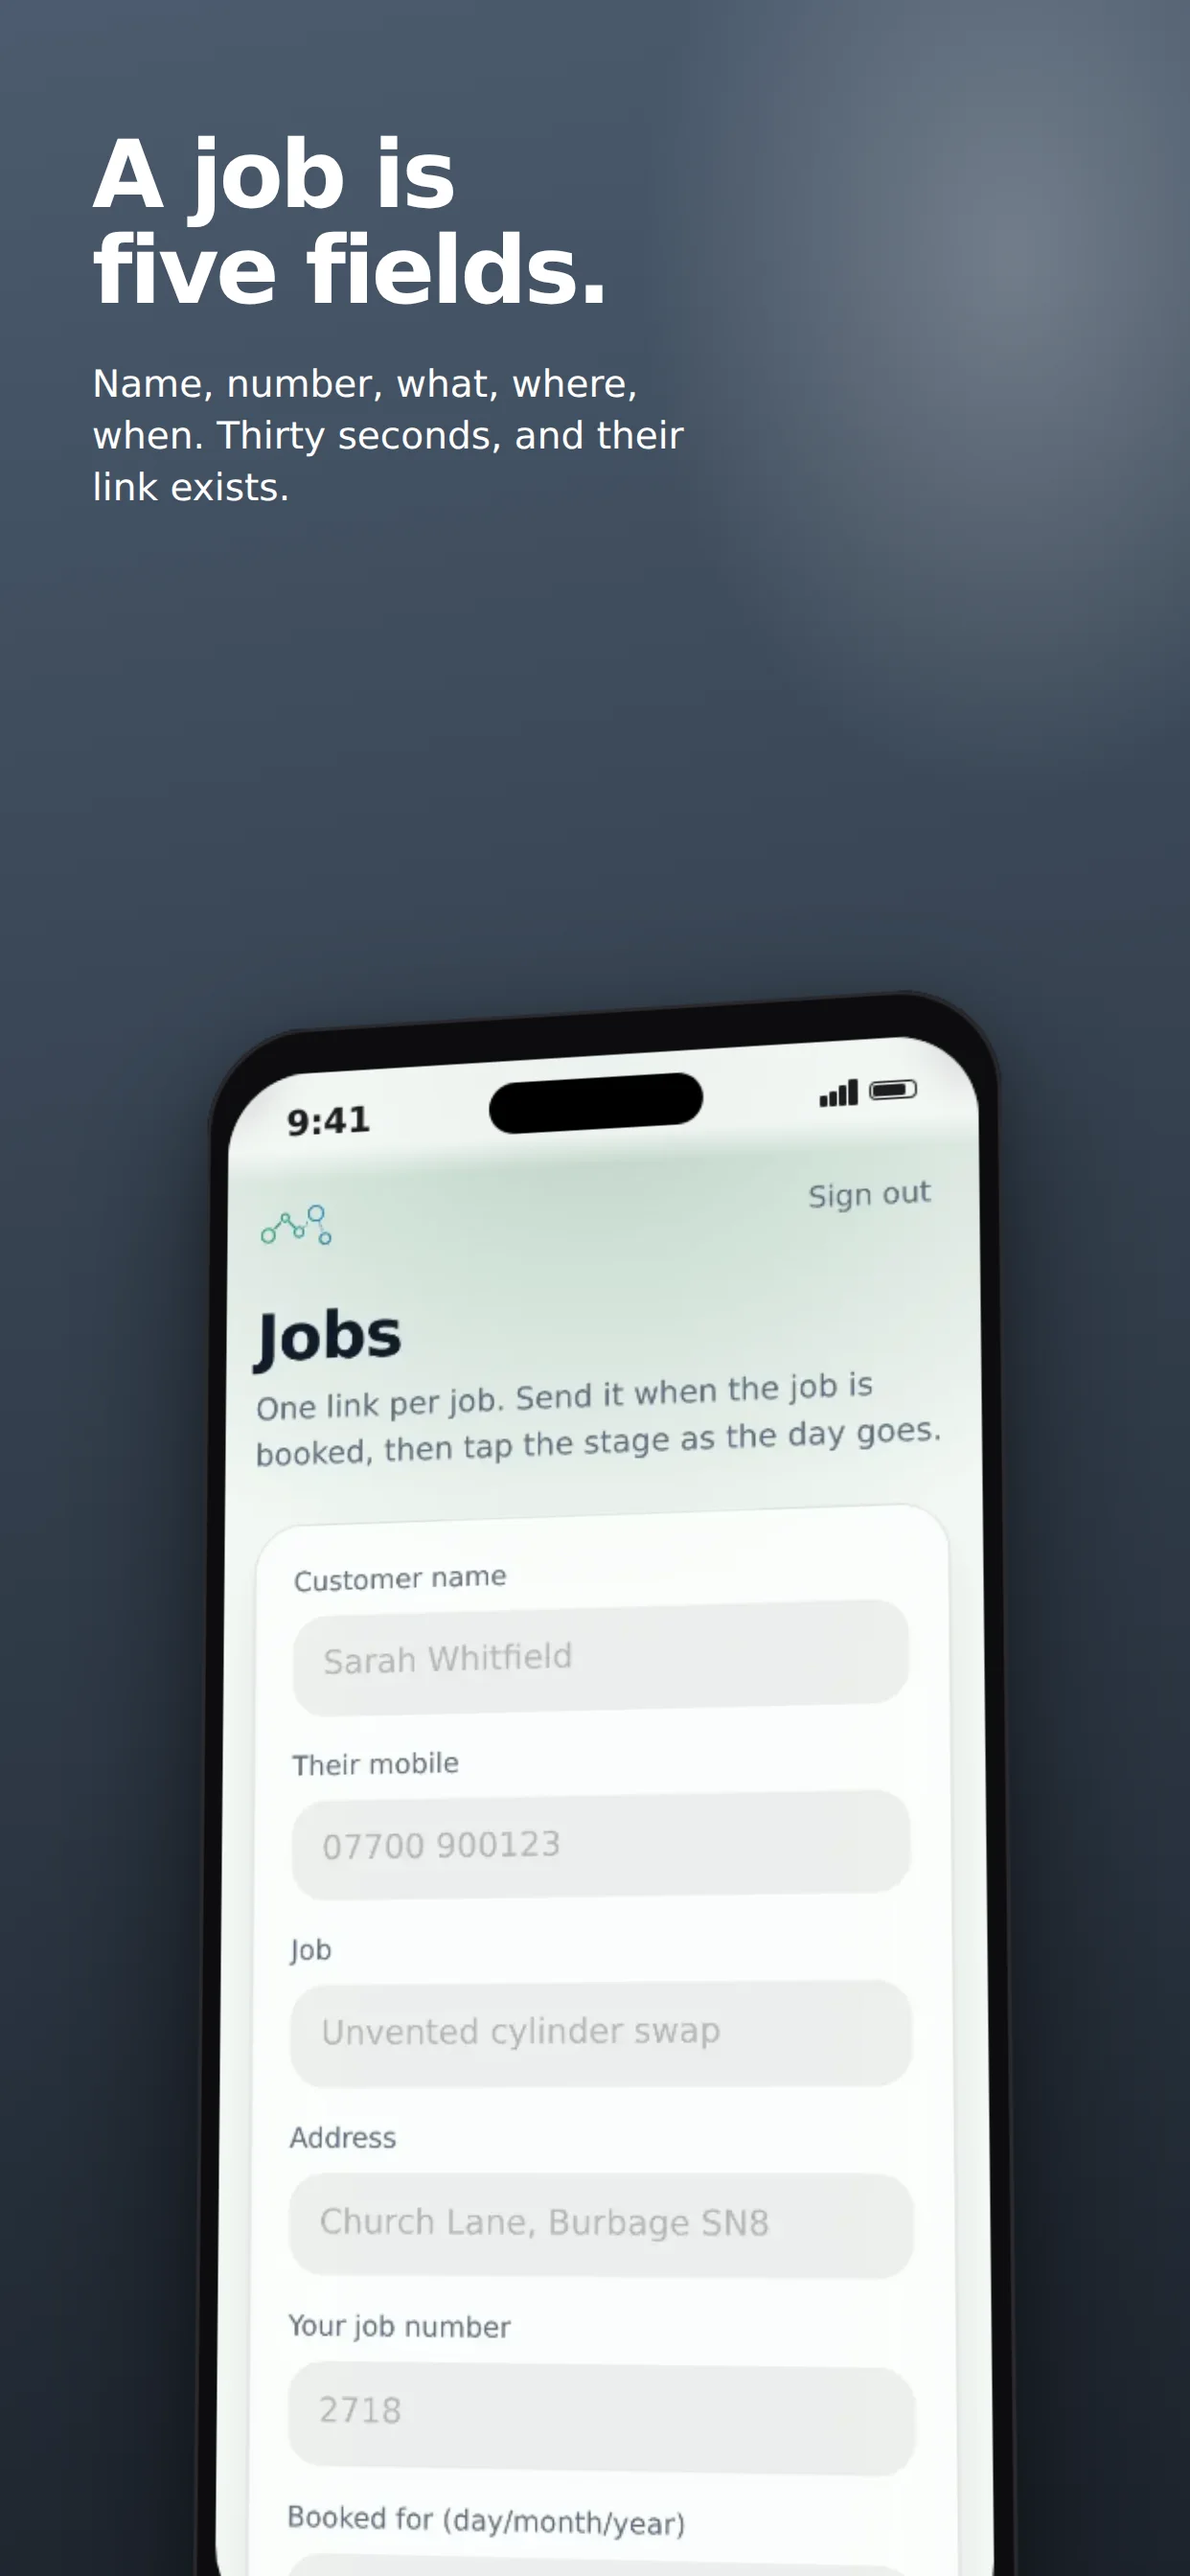
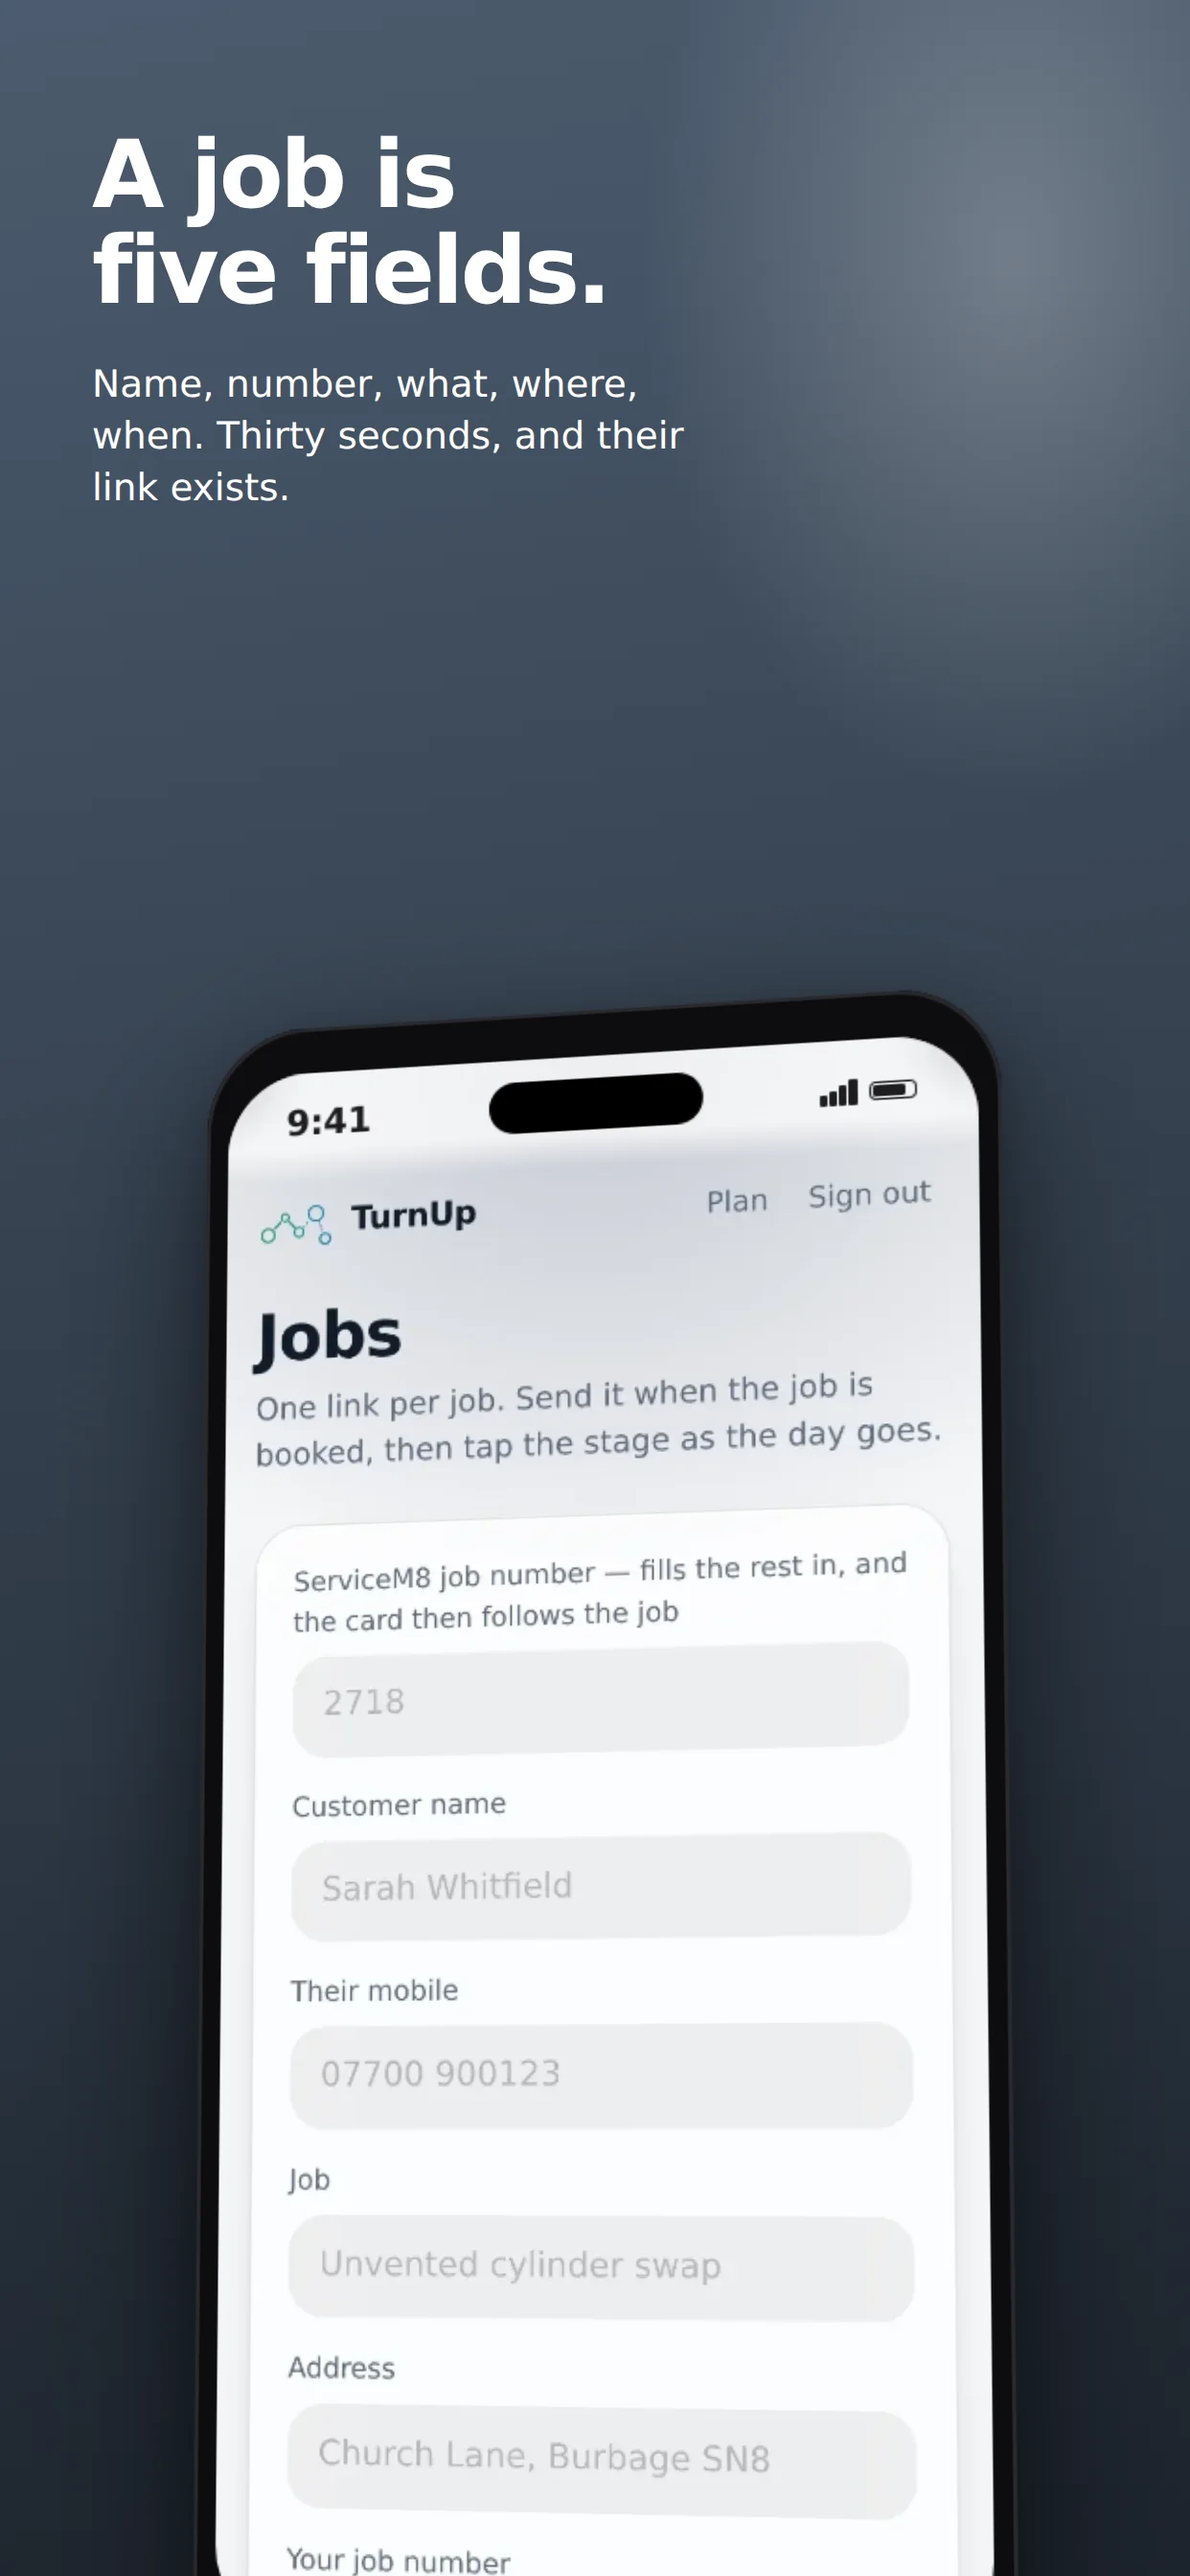
v1.17.0: paid on the same page; trade frames re-captured with the new stage control
Will: 'Please update the features with taking payment for jobs on the app
like ServiceM8.' A new idea on the roadmap and a frame under Where it is
going: when the card says Job done, the bill is under it and Apple Pay or
a card settles it there; the receipt stays with the job. Honest about the
cost: a Stripe account and their fee.

Will: 'regenerate the homepage trade frames with the new stage control.
Do this now.' Done: trade-login, trade-run, dashboard, trade-job-open,
trade-new-job and trade-profile re-captured from the seeded database, and
the eight trade frames re-rendered. First render came out with the OLD
pills because the production image optimizer cache (.next/cache/images)
survives a rebuild and served the stale captures; cleared and rendered
again. Worth remembering: after changing a file in public/home, clear
that cache before rendering frames.

Claude-Session: https://claude.ai/code/session_01KF9r2LXPvcJ1ugbhNoFDpJ

diff --git a/src/app/preview/posters/Posters.jsx b/src/app/preview/posters/Posters.jsx
@@ -215,6 +215,20 @@ function Mock({ kind }) {
       ))}
     </Screen>
   )
+  if (kind === 'pay') return (
+    <Screen eyebrow="Job done · 14 Church Lane" title="Your bill">
+      <div className="rounded-[18px] bg-white px-4 py-4 shadow-sm">
+        <div className="flex items-baseline justify-between"><p className="text-[15px] font-semibold">Unvented cylinder swap</p><p className="text-[22px] font-bold tracking-[-0.02em]">£1,840</p></div>
+        {[['Labour, one day', '£695'], ['Megaflo Eco 210 L', '£986'], ['Fittings and sundries', '£159']].map(([t, v]) => (
+          <div key={t} className="mt-2 flex justify-between border-t border-black/5 pt-2 text-[13px] text-[#5f6672]"><span>{t}</span><span>{v}</span></div>
+        ))}
+        <p className="mt-2 text-[12px] text-[#5f6672]">Includes VAT · as quoted on 12 September</p>
+      </div>
+      <span className="flex items-center justify-center gap-2 rounded-full bg-black px-4 py-3.5 text-[16px] font-semibold text-white"><span className="text-[18px]"></span>Pay £1,840</span>
+      <span className="flex items-center justify-center rounded-full bg-white px-4 py-3.5 text-[15px] font-semibold shadow-sm" style={{ color: 'var(--tint)' }}>Pay by card</span>
+      <Row icon={<TickIcon size={19} />} title="Receipt kept with the job" sub="12-month workmanship guarantee · 25 years on the cylinder" on />
+    </Screen>
+  )
   if (kind === 'pickup') return (
     <Screen eyebrow="Thursday" title="Two ends, one journey">
       <Row icon={<PinIcon size={19} />} title="Pick up · 14 Church Lane" sub="Sarah is in until 2 — side gate" on />

diff --git a/src/lib/roadmap.js b/src/lib/roadmap.js
@@ -128,6 +128,8 @@ export const PHASES = [
         what: 'What happened and who said what, in one thread on the job: the stages, the customer\u2019s answers, your notes, the texts \u2014 the way a ServiceM8 job diary reads, but shared with the person it is about.' },
       { key: 'whatsapp', name: 'WhatsApp, where the bookings actually come from', state: 'idea',
         what: 'Half the jobs start as a WhatsApp with a photo, a video and a pin. Today that gets retyped into the job system and the pictures stay in the chat. The link sent back through WhatsApp, and the photos, the pin and the thread kept with the job \u2014 without running the business inside WhatsApp.' },
+      { key: 'payments', name: 'Paid on the same page', state: 'idea',
+        what: 'When the card says Job done, the bill is under it and Apple Pay or a card settles it there, the way ServiceM8 Pay does on an invoice. A deposit at booking if you take one. The receipt stays with the job, so the customer never hunts an email and you never chase. Needs a Stripe account and takes their fee.' },
       { key: 'quoting', name: 'Quotes and invoices', state: 'idea',
         what: 'Only worth doing once the card is in a hundred wallets.' },
     ],

diff --git a/src/lib/version.js b/src/lib/version.js
@@ -16,7 +16,7 @@
  *
  * Adding one is welcome. Inventing one at runtime is not.
  */
-export const VERSION = '1.16.3'
+export const VERSION = '1.17.0'
 export const BUILD_DATE = '2026-10-09'
 
 export const THEMES = [
@@ -48,6 +48,10 @@ export const theme = () => THEMES[THEME_INDEX % THEMES.length]
  * by the person who asked for it, not by a release manager.
  */
 export const CHANGELOG = [
+  { version: '1.17.0', date: '2026-10-09', notes: [
+    'Paid on the same page: a new idea on the roadmap and a frame under Where it is going. When the card says Job done, the bill is under it and Apple Pay settles it there; the receipt stays with the job.',
+    'The trade-side homepage frames are re-captured with the new stage control.',
+  ] },
   { version: '1.16.3', date: '2026-10-09', notes: [
     'The stage control on a job card is one track with five equal cells, icon over a short label, instead of five pills that wrapped and clipped at phone width. Will: "the buttons lose their integrity".',
   ] },

diff --git a/src/lib/posters.js b/src/lib/posters.js
@@ -113,6 +113,9 @@ export const FRAMES = [
   f('n-manage', 'next', 'next', GREEN,
     'Quote. Book.\nDo. Invoice.', 'The link grows into the job itself: the quote they accepted, the day, the bill, the next service due. One place, for a one-van firm.',
     { mock: 'manage', alt: 'A job from quote to invoice in one place' }),
+  f('n-pay', 'next', 'next', NAVY,
+    'Done.\nPaid.\nReceipt kept.', 'The bill on the same page as the job, settled with Apple Pay or a card the moment it says Job done. A deposit at booking if you take one. The receipt stays with the job.',
+    { mock: 'pay', alt: 'The customer page after Job done: the bill, an Apple Pay button, and the receipt kept with the job' }),
   f('n-pickup', 'next', 'next', SLATE,
     'Pickup here.\nDrop-off there.', 'Removals, returns, a courier. Two ends, each with its own “will someone be in?”',
     { mock: 'pickup', alt: 'A journey with a pickup and a drop-off' }),
